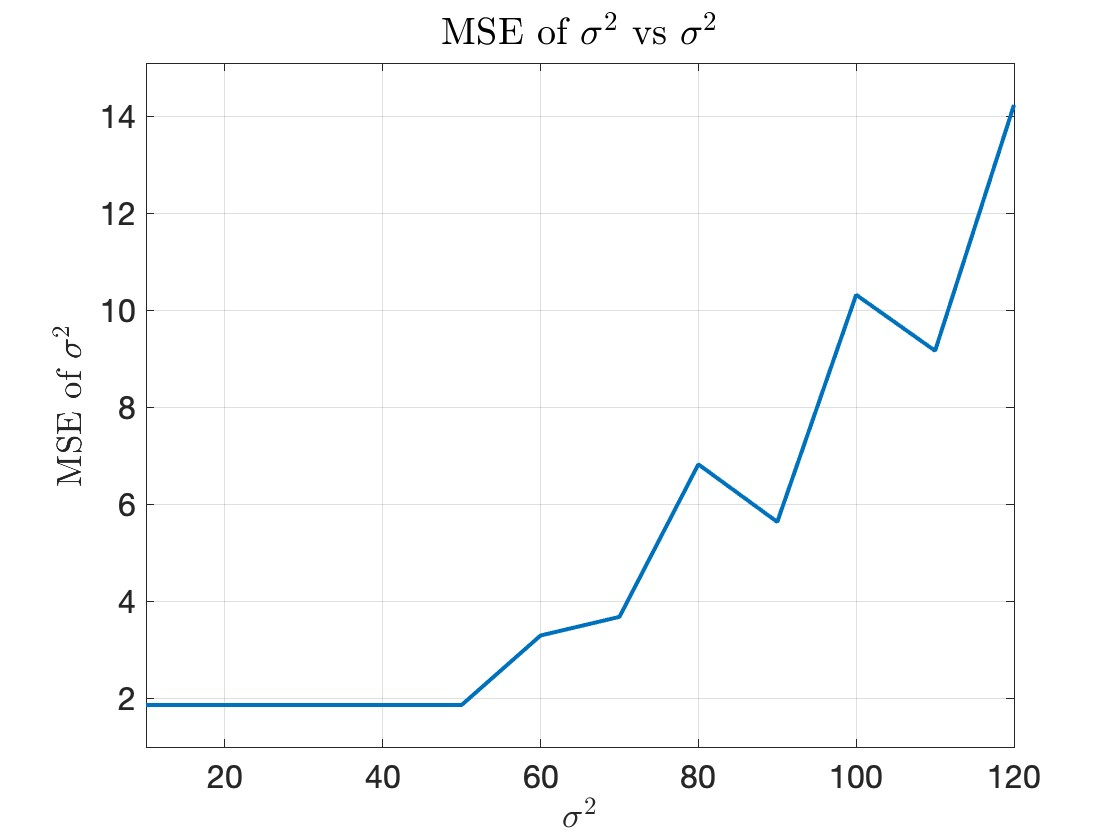
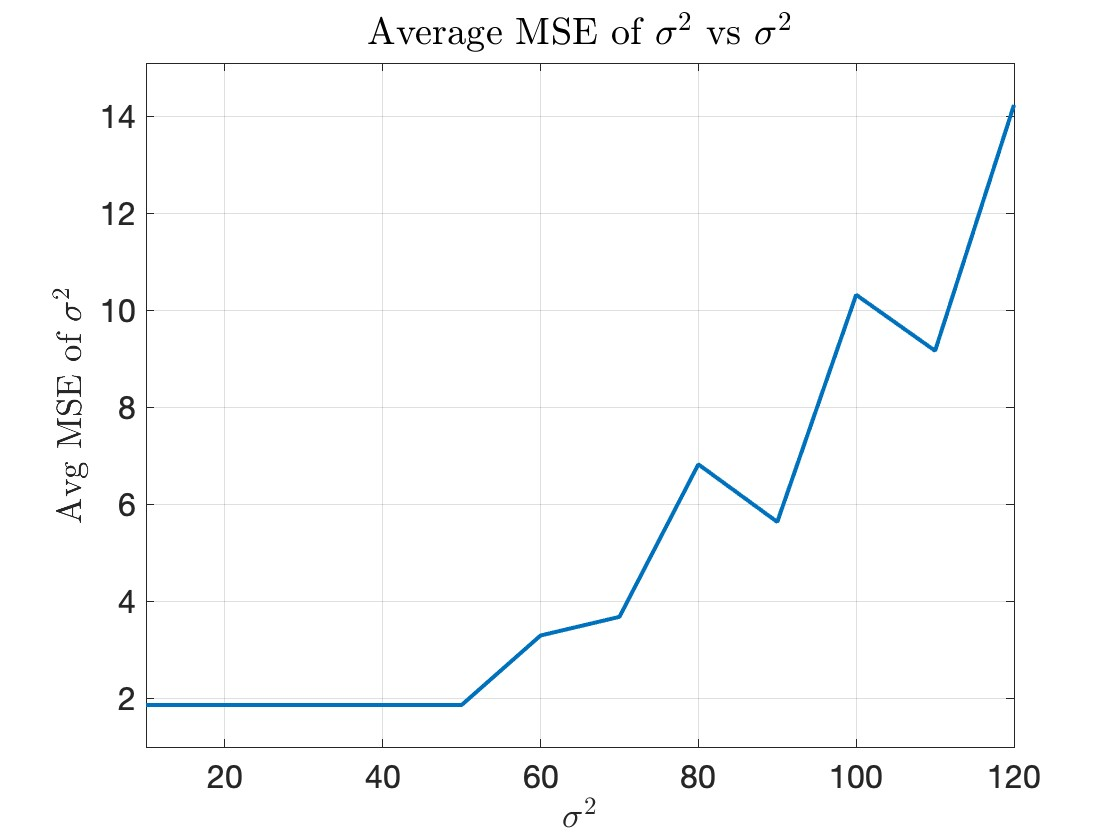
some edits to 3.4 and lab1est

diff --git a/proj1_3_4.m b/proj1_3_4.m
@@ -26,7 +26,7 @@ sig = @(t) 100 * cos(10000 * pi * t) .* (u(t) - u(t - 1));
 % z2a = y2sig(t) + noise2_var1;
 % 
 % %call lab1est which outputs estimated angle and L
-% [~, lHat1] = lab1est(A, B, z1a, z2a);
+% [~, lHat1] = lab1est(A, B, z1a, z2a, 1e5);
 % fprintf('%.10f\n', lHat1);
 % display(["True_L: ", L, "Est_L: " lHat1, "difference: ", abs(L-lHat1) "variance: ", 1]); %every time i run i get the same thing:(
 % 
@@ -41,39 +41,40 @@ sig = @(t) 100 * cos(10000 * pi * t) .* (u(t) - u(t - 1));
 % 
 % % 
 % %call lab1est which outputs estimated angle and L
-% [~, lHat2] = lab1est(A, B, z1b, z2b);
+% [~, lHat2] = lab1est(A, B, z1b, z2b, 1e5);
 % fprintf('%.10f\n', lHat2);
 % display(["True_L: ", L, "Est_L: " lHat2, "difference: ", abs(L-lHat2) "variance: ", 150]);
 
 M = 12;
 N = 100;
+last_alpha = 120;
 % estimates = zeros(N, M); 
-% for alpha = 10:10:120 %for each alpha (it's really the sqrt of alpha right?)
-% 
+% for alpha = 10:10:last_alpha %for each alpha (it's really the sqrt of alpha right?)
+
 %    for n = 1:N
 %         z1 = y1sig(t) + sqrt(alpha)*randn(1, length(t));
 %         z2 = y2sig(t)+ sqrt(alpha)*randn(1, length(t)); 
-%        [~, estimates(n, alpha/10)] = lab1est(A, B, z1, z2); %get the estimated L for each set of noisy responses
+%        [~, estimates(n, alpha/10)] = lab1est(A, B, z1, z2, 1e5); %get the estimated L for each set of noisy responses
 %     end
 % end
-% 
-% save('estimates.mat', 'estimates'); %save it
-data = load('estimates.mat'); %get it
+
+save('estimates2.mat', 'estimates'); %save it
+data = load('estimates2.mat'); %get it
 estimates = data.estimates;
 
 mse_for_relization = zeros(N, M);
 mse_for_alpha = zeros(M, 1); 
-for alpha = 10:10:120 
+for alpha = 10:10:last_alpha 
     mse_for_relization(:, alpha/10) = ((estimates(:, alpha/10)) - L).^2; % am i supposed to multiple by sigma squared?
     mse_for_alpha(alpha/10, 1) = (1/N)*sum(mse_for_relization(:, alpha/10));
 end
 
 figure;
-plot(10:10:120, mse_for_alpha); 
+plot(10:10:last_alpha, mse_for_alpha); 
 xlabel('$\sigma^2$', 'Interpreter', 'latex');
-ylabel('MSE of $\sigma^2$', 'Interpreter', 'latex');
-title('MSE of $\sigma^2$ vs $\sigma^2$', 'Interpreter', 'latex');
-xlim([10, 120]);
+ylabel('Avg MSE of $\sigma^2$', 'Interpreter', 'latex');
+title('Average MSE of $\sigma^2$ vs $\sigma^2$', 'Interpreter', 'latex');
+xlim([10, last_alpha]);
 grid on;
 
 
@@ -81,7 +82,7 @@ standard_dev_per_alpha = zeros(M,1);
 
 % standard_dev_per_alpha = std(mse_for_relization, 0, 1);
 
-for alpha = 10:10:120 
+for alpha = 10:10:last_alpha 
     summation = 0;
     for n = 1:N
         summation = summation + (mse_for_relization(n, alpha/10)-mse_for_alpha(alpha/10, 1))^2;
@@ -89,11 +90,11 @@ for alpha = 10:10:120
     standard_dev_per_alpha(alpha/10, 1) = sqrt((1/N)*summation);
 end
 
-alpha = 10:10:120;
+alpha = 10:10:last_alpha;
 figure;
 errorbar(alpha, mse_for_alpha, standard_dev_per_alpha, 'LineWidth', 2) 
 xlabel('$\sigma^2$', 'Interpreter', 'latex');
-ylabel('MSE of $\sigma^2$', 'Interpreter', 'latex');
-title('MSE of $\sigma^2$ with Error Bars', 'Interpreter', 'latex');
-xlim([10 120]);
+ylabel('Avg MSE of $\sigma^2$', 'Interpreter', 'latex');
+title('Average MSE vs $\sigma^2$ with Standard Deviation of MSE', 'Interpreter', 'latex');
+xlim([10 last_alpha]);
 grid on;

diff --git a/lab1sim.m b/lab1sim.m
@@ -3,5 +3,5 @@ function [y1sig, y2sig] = lab1sim(A, B, L, sig)
     tau1 = (sqrt((B^2)+(L-A)^2))/speed_of_sound; %calculate taus based on derivation from part a
     tau2 = (sqrt((B^2)+(L-2*A)^2))/speed_of_sound;
 
-    y1sig = @(t) sig(t-tau1); %create y1(t) = s(t-tau1). This is returned but to the caller.
-    y2sig = @(t) sig(t-tau2);%create y2(t) = s(t-tau2). This is returned but to the caller.
+    y1sig = @(t) sig(t-tau1); %create y1(t) = s(t-tau1). This is returned back to the caller.
+    y2sig = @(t) sig(t-tau2);%create y2(t) = s(t-tau2). This is returned back to the caller.

diff --git a/lab1est.m b/lab1est.m
@@ -1,4 +1,4 @@
-function [theta_est, L_est] = lab1est(A, B, y1, y2)
+function [theta_est, L_est] = lab1est(A, B, y1, y2, fsim)
     % Constants
     c_s = 343; % Speed of sound in m/s
 
@@ -8,7 +8,7 @@ function [theta_est, L_est] = lab1est(A, B, y1, y2)
     lag = lags(idx); % Get the lag corresponding to the peak
 
     % Convert lag to time
-    relative_time_shift = lag / 1e5; % Convert from samples to seconds
+    relative_time_shift = lag / fsim; % Convert from samples to seconds
 
     % Calculate relative delay
     relative_delay = min(abs(relative_time_shift) * c_s / A, 1);
